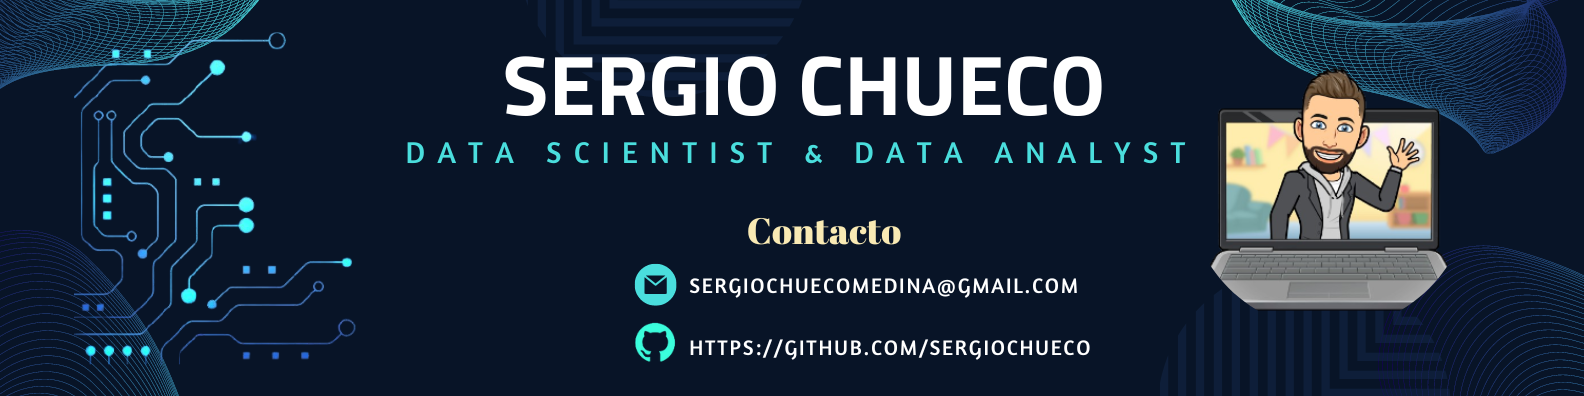
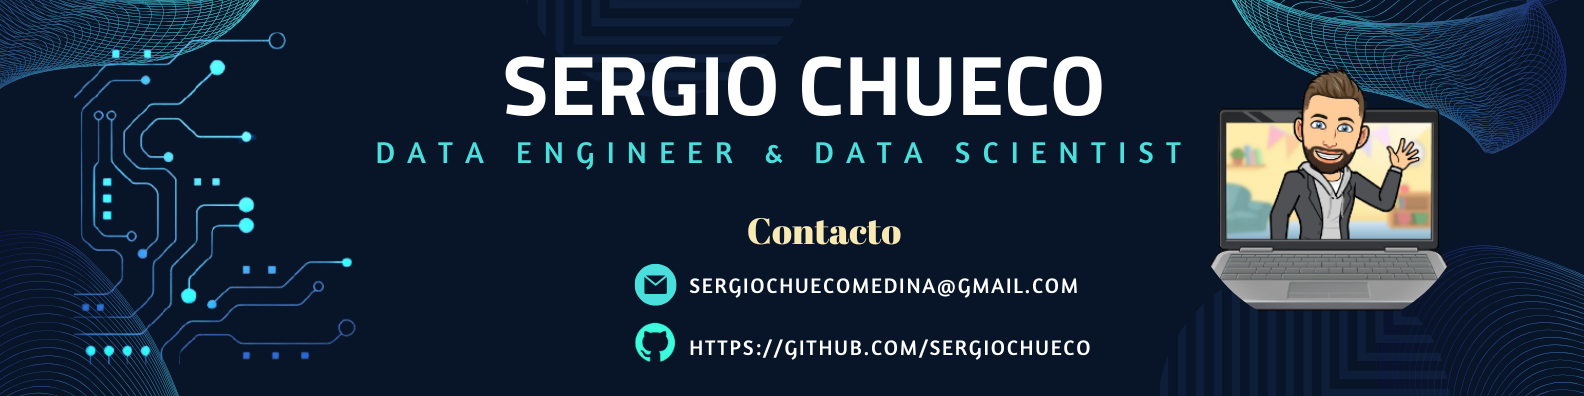
cambiar data engineer + añadir nuevas herramientas

Changed region(s): [[0.2165, 0.3333, 0.7424, 0.4242], [0.8043, 0.0303, 0.8971, 0.1212], [0.0619, 0.0, 0.1547, 0.1212]]

diff --git a/README.md b/README.md
@@ -13,19 +13,22 @@
 
 # Hola, mi nombre es Sergio Chueco Medina 👋👨💻
 
-Trabajo como Data Scientist & Data Analyst.
+Trabajo como Data Engineer.
 
 Tienes antes ti a un apasionado del aprendizaje constante y la resolución de problemas. He redirigido mi camino hacia el fascinante mundo de la tecnología y los datos, donde he encontrado mi verdadera vocación.
 
-Completé el Máster en Data Science con Nuclio Digital School, sumergiéndome en el campo del Machine Learning y IA. 
+Completé el Máster en Data Science con Nuclio Digital School, sumergiéndome en el campo del Machine Learning y IA. Luego me empezó a apasionar montar pipelines de datos robustos para garantizar la integridad y calidad de los datos. Así que me especialicé en Data Engineer a través de frameworks como Fivetran, Snowflake, DBT y herramientas de BI como Power BI y Tableau.
 
-Mi motivación radica en utilizar esta fascinante herramienta para mejorar aspectos vitales de las empresas, con un impacto directo en la sociedad y abordar problemas complejos en diversos sectores. Actualmente, trabajo como Data Scientist Junior, mi trabajo consiste en analizar los datos de la empresa, garantizar la gobernanza del dato, documentar todo el proceso de obtención de los datos, reportar diferentes KPIs a los stakeholders, creando informes automatizados desde la base de datos con visualizaciones en PowerBI y preparar los datos para generar modelos de Machine Learning.
+Mi motivación radica en utilizar esta fascinante herramienta para mejorar aspectos vitales de las empresas, con un impacto directo en la sociedad y abordar problemas complejos en diversos sectores. Actualmente, trabajo como Data Engineer, mi trabajo consiste en entender las necesidades de los clientes y de la empresa, montar pipelines robustos, garantizar la gobernanza del dato, documentar todo el proceso, reportar diferentes KPIs a los stakeholders, analizar los datos y poder ver oportunidades de mejoras en los rendimientos de los datos.
 
 
 ## Tecnologías con las que trabajo:
 
 
 <p align="left">
+    <img src="https://www.vectorlogo.zone/logos/snowflake/snowflake-ar21.svg" alt="snowflake" width="40" height="40" />
+    <img src="https://www.vectorlogo.zone/logos/fivetran/fivetran-ar21.svg" alt="fivetran" width="40" height="40" />
+    <img src="https://github.com/gilbarbara/logos/blob/main/logos/dbt.svg" alt="dbt" width="40" height="40" />
     <img src="https://www.vectorlogo.zone/logos/git-scm/git-scm-icon.svg" alt="git" width="40" height="40" />
     <img src="https://raw.githubusercontent.com/devicons/devicon/master/icons/docker/docker-original-wordmark.svg" alt="docker" width="40" height="40" /> 
     <img src="https://www.vectorlogo.zone/logos/getpostman/getpostman-icon.svg" alt="postman" width="40" height="40" />
@@ -44,6 +47,8 @@ Mi motivación radica en utilizar esta fascinante herramienta para mejorar aspec
     <img src="https://upload.wikimedia.org/wikipedia/commons/0/05/Scikit_learn_logo_small.svg" alt="scikit_learn" width="60" height="40"/>
     <img src="https://seaborn.pydata.org/_images/logo-mark-lightbg.svg" alt="seaborn" width="40" height="40"/> 
     <img src="https://www.vectorlogo.zone/logos/tensorflow/tensorflow-icon.svg" alt="tensorflow" width="40" height="40"/>
+    <img src="https://www.vectorlogo.zone/logos/microsoft_powerbi/microsoft_powerbi-ar21.svg" alt="power_bi" width="40" height="40"/>
+    <img src="https://github.com/gilbarbara/logos/blob/main/logos/tableau.svg" alt="tableau" width="40" height="40"/>
 </p>
 
 <br>
